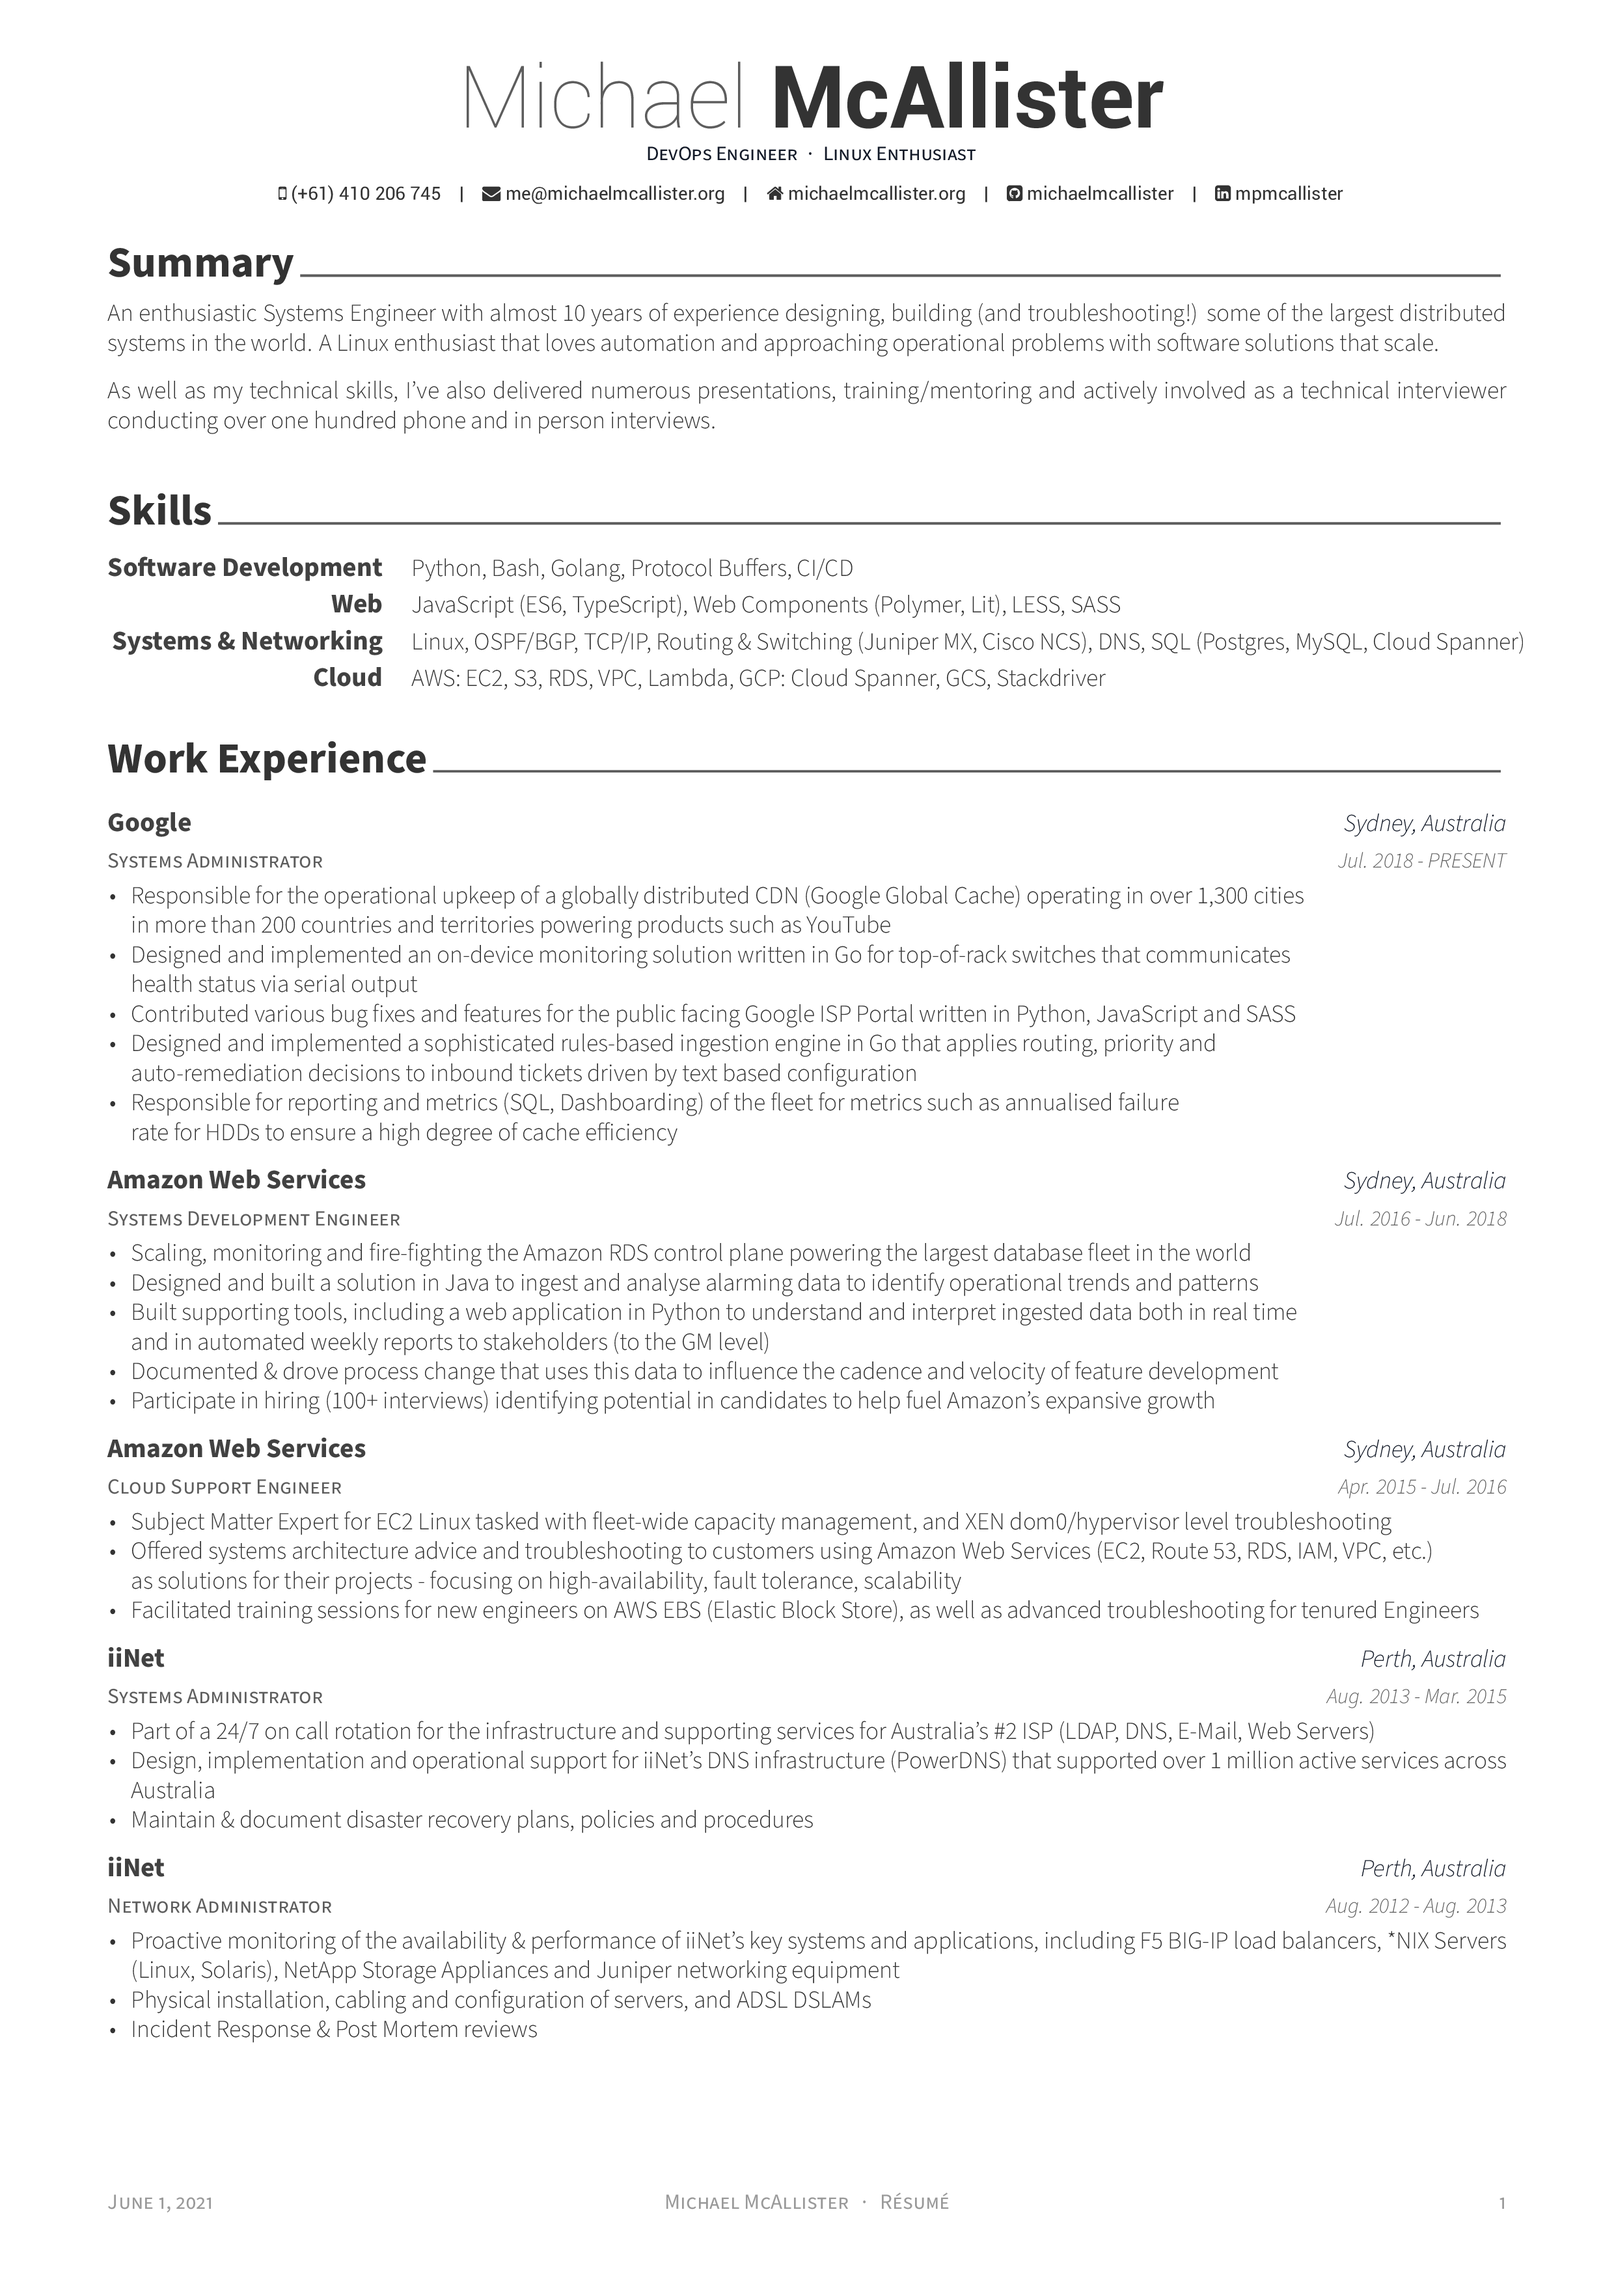
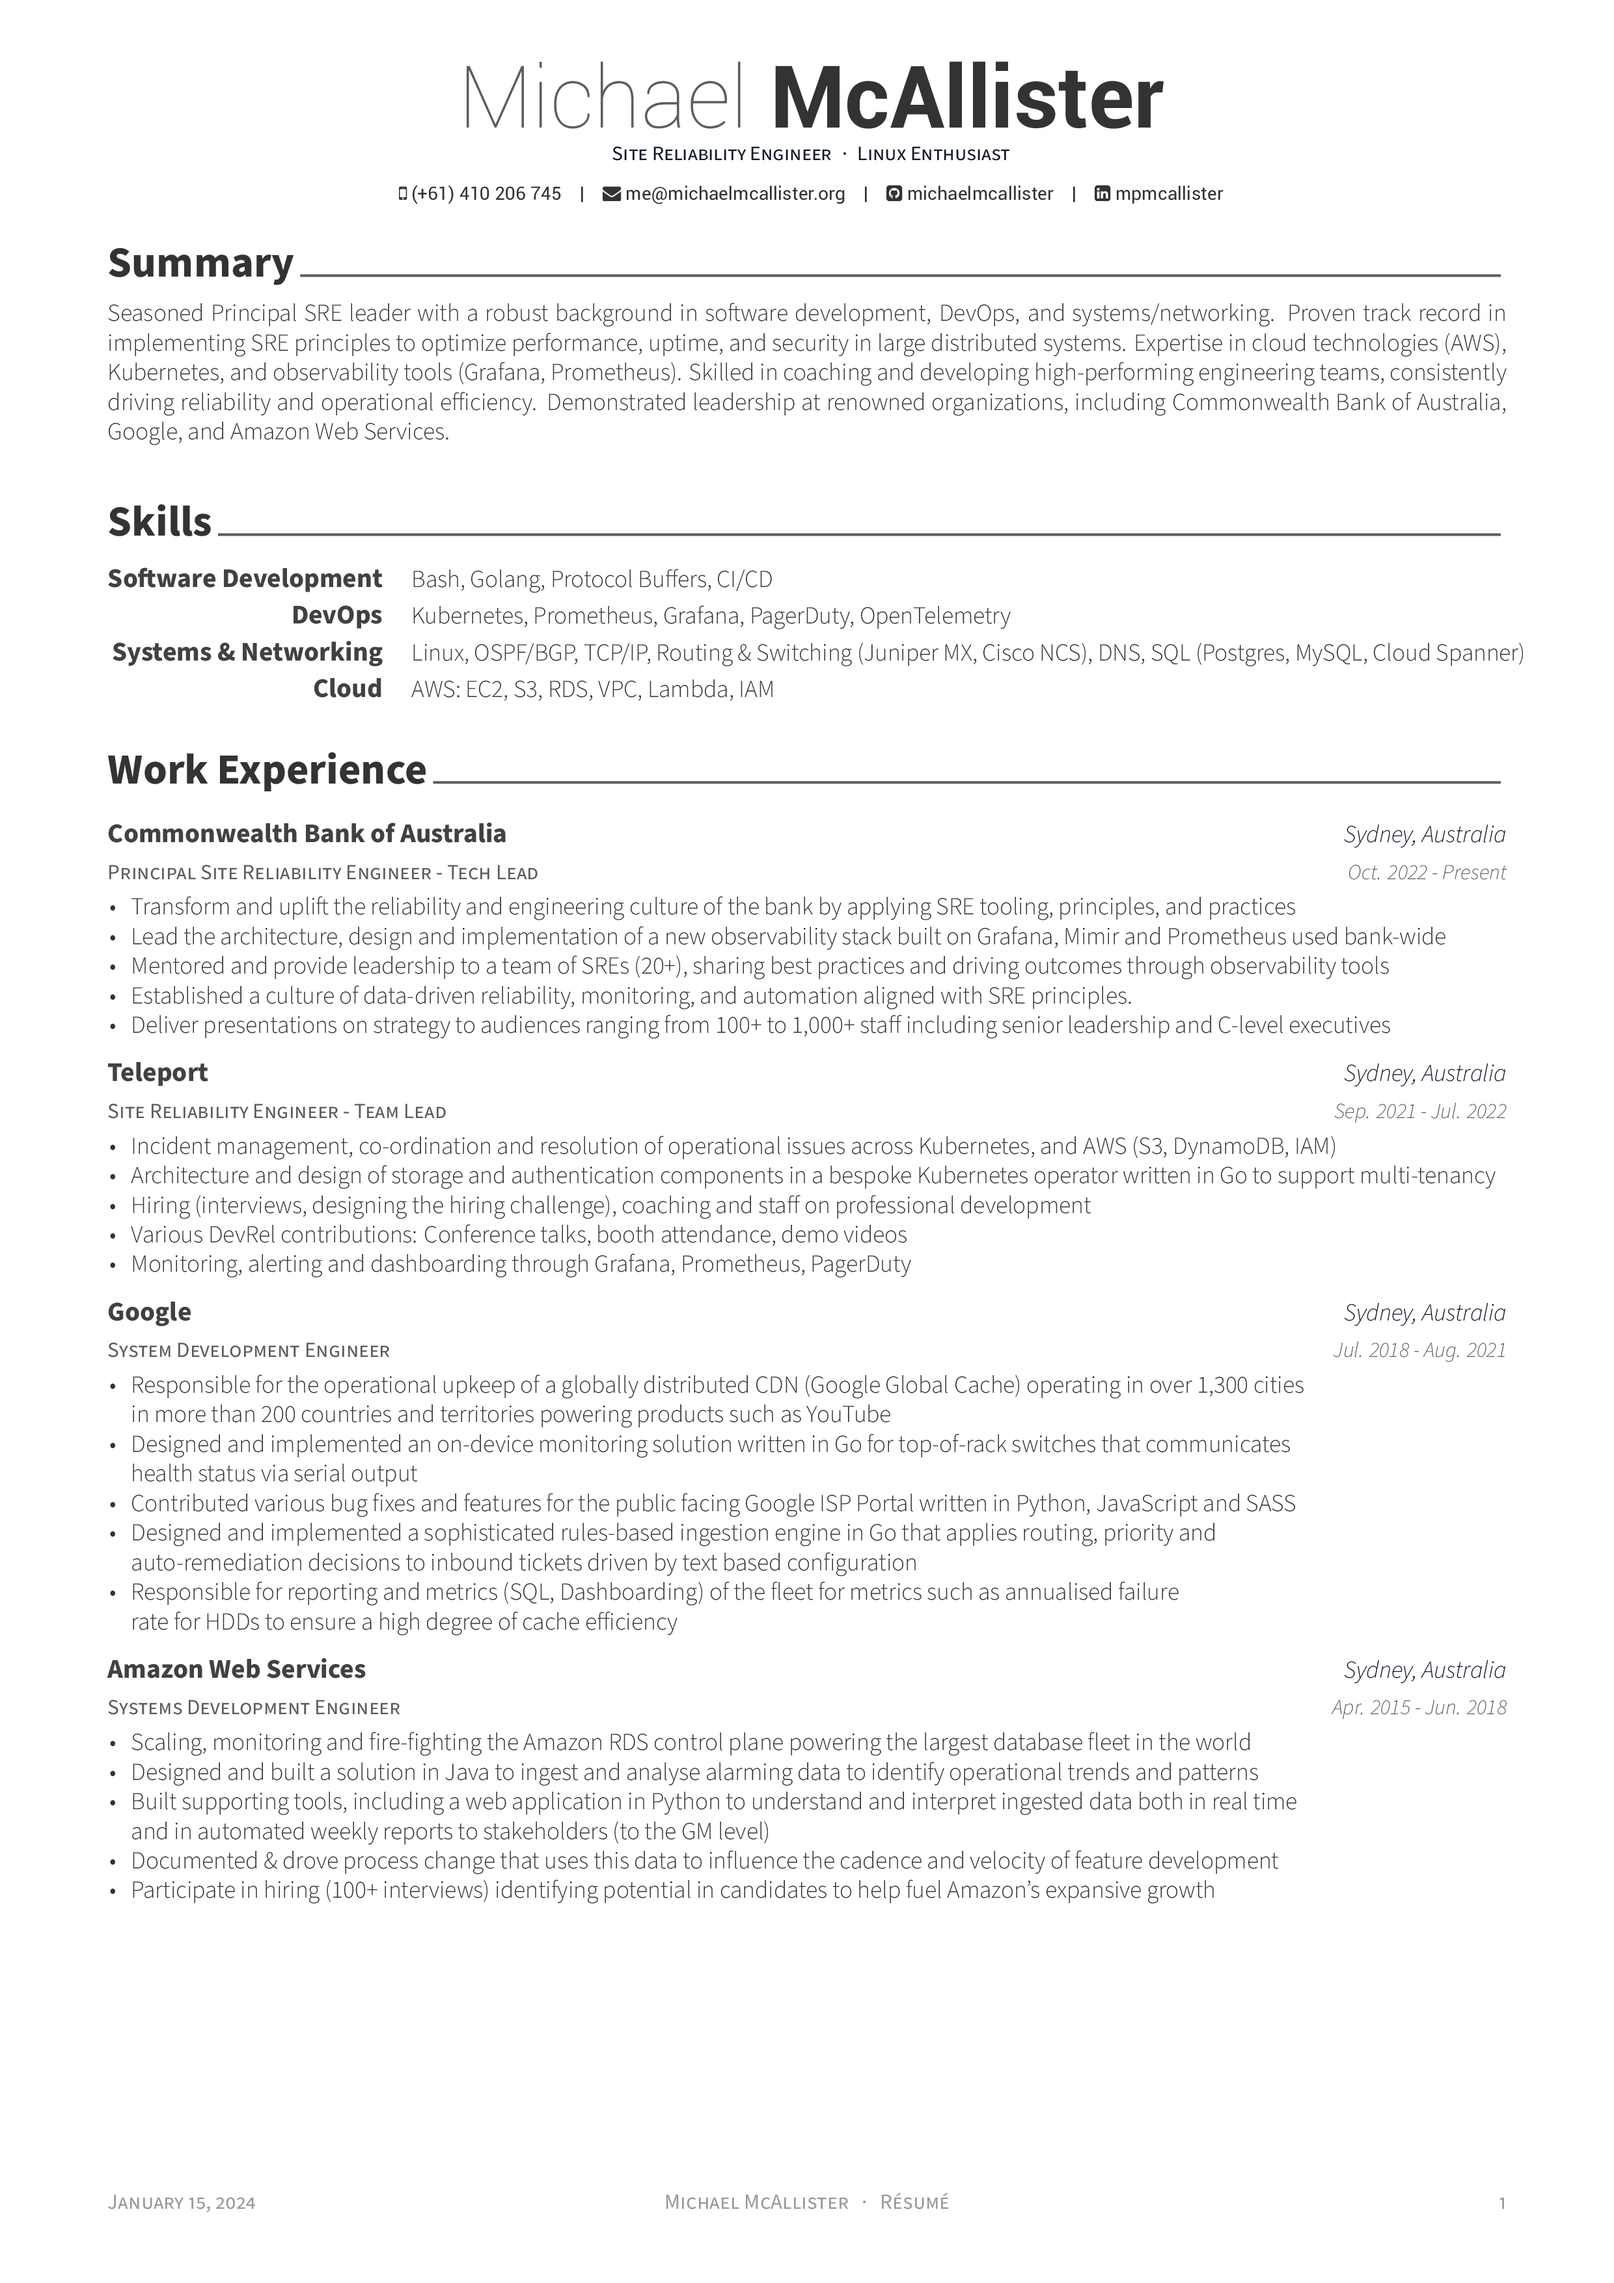
Add Makefile

diff --git a/resume/summary.tex b/resume/summary.tex
@@ -8,9 +8,5 @@
 %	CONTENT
 %-------------------------------------------------------------------------------
 \begin{cvparagraph}
-
-%---------------------------------------------------------
-Experienced Site Reliability Engineer with over 10 years of proven success designing, implementing, and maintaining critical infrastructure systems that maximise performance, uptime, and security for some of the largest distributed systems in the world.
-
-Skilled in analyzing complex problems, identifying root causes, and delivering effective solutions in fast-paced, high-pressure environments. Strong communication skills with a track record of building collaborative relationships with team members and stakeholders.
+  Seasoned Principal SRE leader with a robust background in software development, DevOps, and systems/networking. Proven track record in implementing SRE principles to optimize performance, uptime, and security in large distributed systems. Expertise in cloud technologies (AWS), Kubernetes, and observability tools (Grafana, Prometheus). Skilled in coaching and developing high-performing engineering teams, consistently driving reliability and operational efficiency. Demonstrated leadership at renowned organizations, including Commonwealth Bank of Australia, Google, and Amazon Web Services.
 \end{cvparagraph}

diff --git a/resume/experience.tex b/resume/experience.tex
@@ -17,10 +17,10 @@
     {
       \begin{cvitems} % Description(s) of tasks/responsibilities
       \item {Transform and uplift the reliability and engineering culture of the bank by applying SRE tooling, principles, and practices} 
-      \item {Lead the architecture, design and implementation of a new observability stack built on Grafana, Mimir and Prometheus}
-      \item {Responsible for the coaching and professional development for 20+ Engineers}
-      \item {Long term strategy for SRE across the Bank (3-5 year plan)}
-      \item {Deliver presentations on strategy to audiences ranging from 100+ to 1000+ including senior leadership}
+      \item {Lead the architecture, design and implementation of a new observability stack built on Grafana, Mimir and Prometheus used bank-wide}
+      \item {Mentored and provide leadership to a team of SREs (20+), sharing best practices and driving outcomes through observability tools}
+      \item {Established a culture of data-driven reliability, monitoring, and automation aligned with SRE principles.}
+      \item {Deliver presentations on strategy to audiences ranging from 100+ to 1,000+ staff including senior leadership and C-level executives}
       \end{cvitems}
     }
 

diff --git a/resume/education.tex b/resume/education.tex
@@ -17,7 +17,7 @@
     {April. 2023 - Present} % Date(s)
    {
       \begin{cvitems} % Description(s) bullet points
-        % \item {Got a Chun Shin-Il Scholarship which is given to promising students in CSE Dept.}
+        \item {Currently maintaining a WAM of 82.33}
       \end{cvitems}
     }
 
